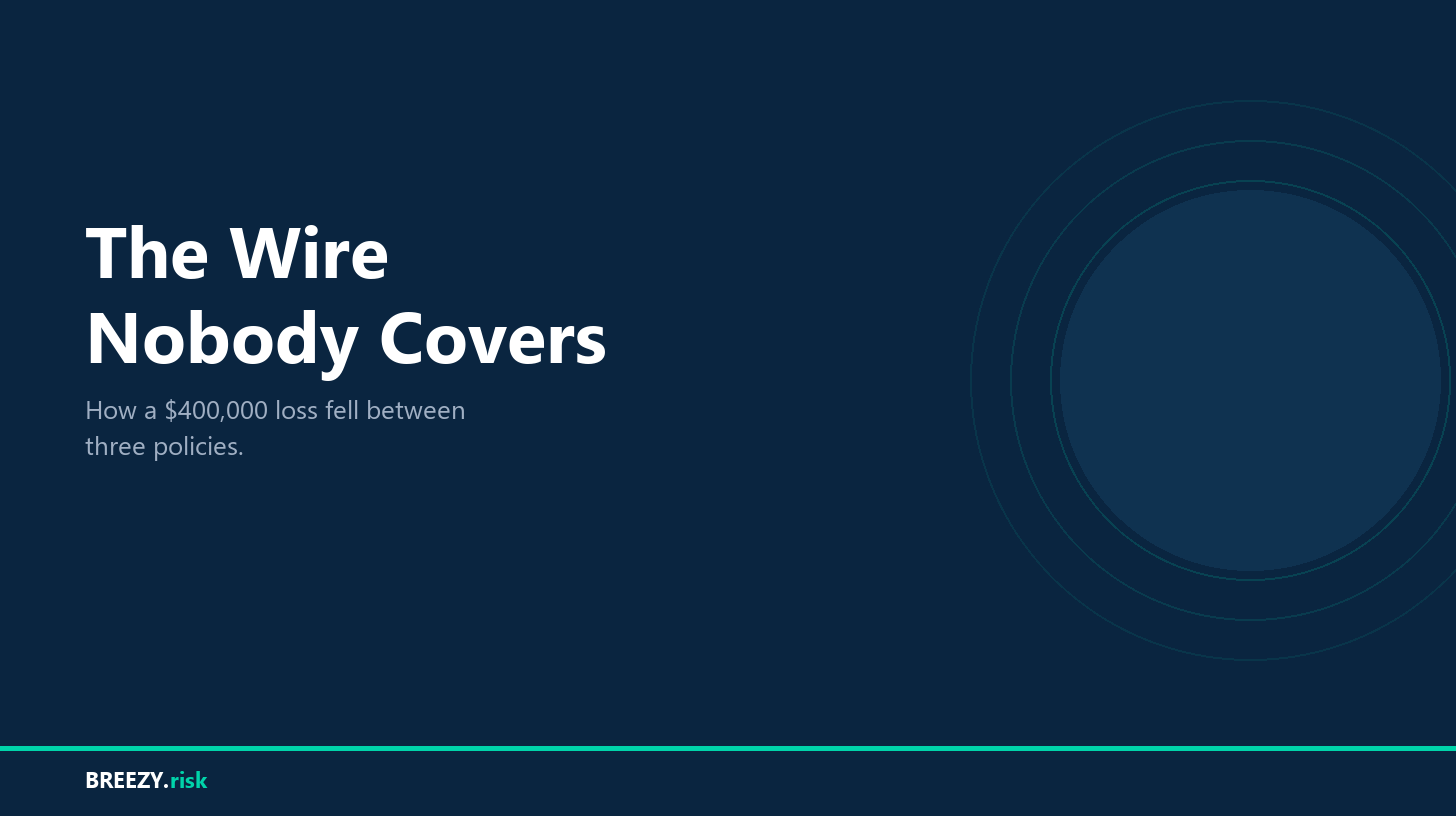
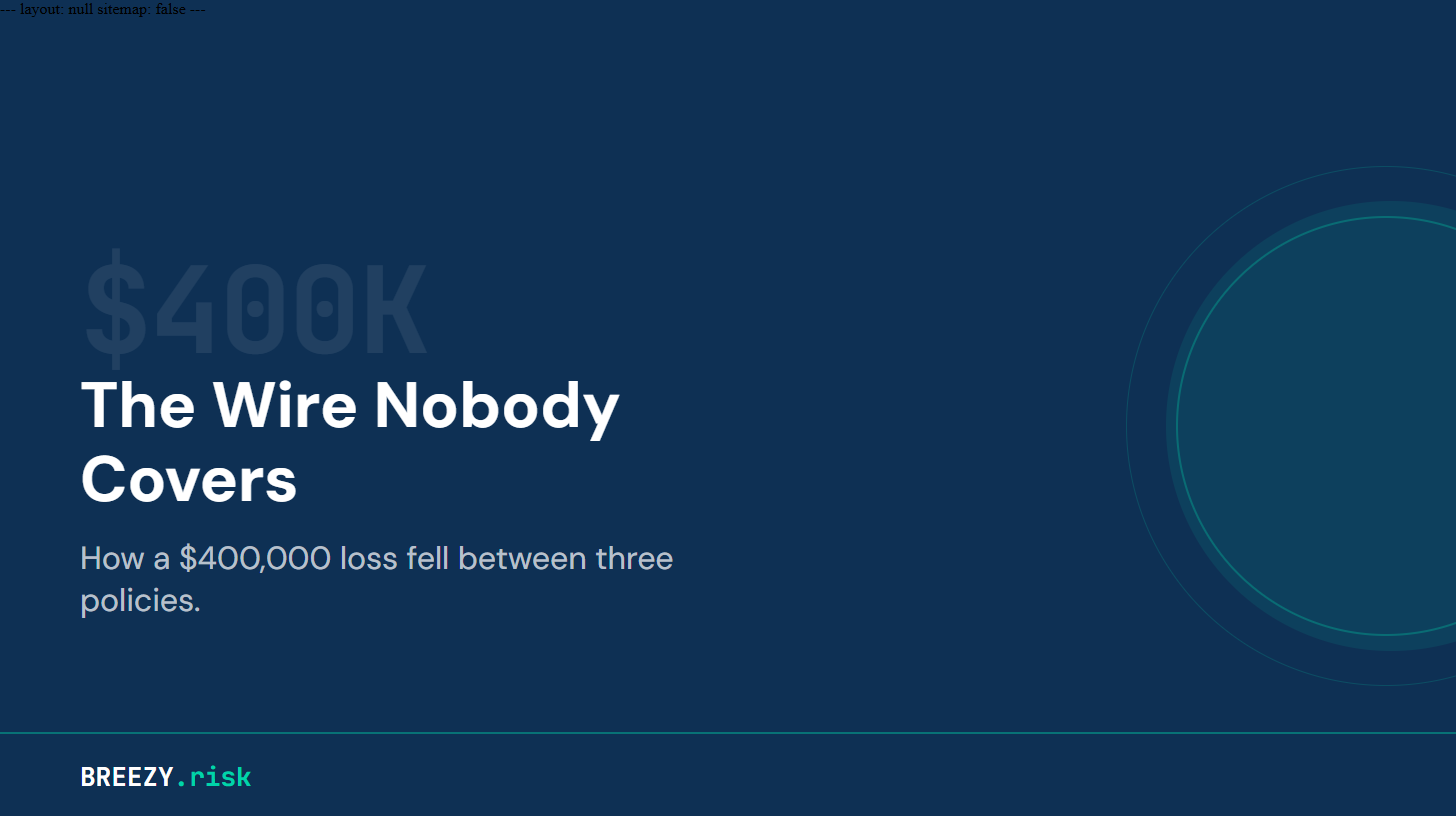
Add graphical elements to 6 bank blog post images
Wire: ghost $400K. Board: scales. Five Incidents: three overlapping
circles. AI Voice: sound wave bars. Examiner: magnifying glass.
Cyber Insurance: bank columns. All subtle, low opacity.

diff --git a/assets/images/blog-header-wire-fraud-bank.html b/assets/images/blog-header-wire-fraud-bank.html
@@ -138,7 +138,15 @@ sitemap: false
     <div class="accent-line"></div>
 
     <div class="content">
-        <div class="category">Community Banks</div>
+        <div style="display: flex; align-items: flex-end; gap: 6px; height: 60px; margin-bottom: 8px; opacity: 0.2;">
+            <div style="width: 8px; height: 20px; background: #fff; border-radius: 2px;"></div>
+            <div style="width: 8px; height: 40px; background: #fff; border-radius: 2px;"></div>
+            <div style="width: 8px; height: 55px; background: #fff; border-radius: 2px;"></div>
+            <div style="width: 8px; height: 35px; background: #fff; border-radius: 2px;"></div>
+            <div style="width: 8px; height: 50px; background: #fff; border-radius: 2px;"></div>
+            <div style="width: 8px; height: 25px; background: #fff; border-radius: 2px;"></div>
+            <div style="width: 8px; height: 45px; background: #fff; border-radius: 2px;"></div>
+        </div>
         <div class="title">When AI Clones Your CFO's Voice</div>
         <div class="subtitle">Your callback verification just became the attack vector.</div>
     </div>

diff --git a/assets/images/blog-header-policy-interaction-map.html b/assets/images/blog-header-policy-interaction-map.html
@@ -138,7 +138,11 @@ sitemap: false
     <div class="accent-line"></div>
 
     <div class="content">
-        <div class="category">Community Banks</div>
+        <div style="position: relative; height: 80px; width: 160px; margin-bottom: -10px;">
+            <div style="position: absolute; left: 0; top: 0; width: 70px; height: 70px; border-radius: 50%; border: 2.5px solid rgba(255,255,255,0.25); background: transparent;"></div>
+            <div style="position: absolute; left: 40px; top: 0; width: 70px; height: 70px; border-radius: 50%; border: 2.5px solid rgba(255,255,255,0.25); background: transparent;"></div>
+            <div style="position: absolute; left: 20px; top: 30px; width: 70px; height: 70px; border-radius: 50%; border: 2.5px solid rgba(255,255,255,0.25); background: transparent;"></div>
+        </div>
         <div class="title">Five Common Cyber Incidents, Three Policies</div>
         <div class="subtitle">Where coverage holds and where carriers point at each other.</div>
     </div>

diff --git a/assets/images/blog-header-cyber-insurance-banks.html b/assets/images/blog-header-cyber-insurance-banks.html
@@ -138,7 +138,13 @@ sitemap: false
     <div class="accent-line"></div>
 
     <div class="content">
-        <div class="category">Community Banks</div>
+        <div style="display: flex; align-items: flex-end; gap: 10px; height: 70px; margin-bottom: 8px; opacity: 0.15;">
+            <div style="width: 14px; height: 50px; background: #fff; border-radius: 2px 2px 0 0;"></div>
+            <div style="width: 14px; height: 60px; background: #fff; border-radius: 2px 2px 0 0;"></div>
+            <div style="width: 14px; height: 70px; background: #fff; border-radius: 2px 2px 0 0;"></div>
+            <div style="width: 14px; height: 60px; background: #fff; border-radius: 2px 2px 0 0;"></div>
+            <div style="width: 14px; height: 50px; background: #fff; border-radius: 2px 2px 0 0;"></div>
+        </div>
         <div class="title">Cyber Insurance for<br>Community Banks</div>
         <div class="subtitle">What it covers. What it doesn't. What your board should be asking.</div>
     </div>

diff --git a/assets/images/blog-header-examiner-cyber-insurance.html b/assets/images/blog-header-examiner-cyber-insurance.html
@@ -138,7 +138,10 @@ sitemap: false
     <div class="accent-line"></div>
 
     <div class="content">
-        <div class="category">Community Banks</div>
+        <div style="position: relative; width: 70px; height: 70px; margin-bottom: 8px; opacity: 0.18;">
+            <div style="width: 50px; height: 50px; border: 4px solid #fff; border-radius: 50%;"></div>
+            <div style="position: absolute; bottom: 0; right: 8px; width: 4px; height: 28px; background: #fff; border-radius: 2px; transform: rotate(-45deg); transform-origin: top center;"></div>
+        </div>
         <div class="title">What Your Examiner Expects From Your Cyber Insurance</div>
         <div class="subtitle">Having a policy is not enough. Here is what they want to see.</div>
     </div>

diff --git a/assets/images/blog-header-wire-nobody-covers.html b/assets/images/blog-header-wire-nobody-covers.html
@@ -138,7 +138,7 @@ sitemap: false
     <div class="accent-line"></div>
 
     <div class="content">
-        <div class="category">Community Banks</div>
+        <div style="font-family: 'JetBrains Mono', monospace; font-size: 120px; font-weight: 700; color: rgba(255,255,255,0.08); letter-spacing: -0.02em; margin-bottom: -20px;">$400K</div>
         <div class="title">The Wire Nobody Covers</div>
         <div class="subtitle">How a $400,000 loss fell between three policies.</div>
     </div>

diff --git a/assets/images/blog-header-board-nobody-insures.html b/assets/images/blog-header-board-nobody-insures.html
@@ -138,7 +138,7 @@ sitemap: false
     <div class="accent-line"></div>
 
     <div class="content">
-        <div class="category">Community Banks</div>
+        <div style="font-size: 100px; margin-bottom: -10px; opacity: 0.15;">&#x2696;</div>
         <div class="title">The Board Nobody Insures</div>
         <div class="subtitle">When D&amp;O and cyber policies are designed to exclude each other.</div>
     </div>
